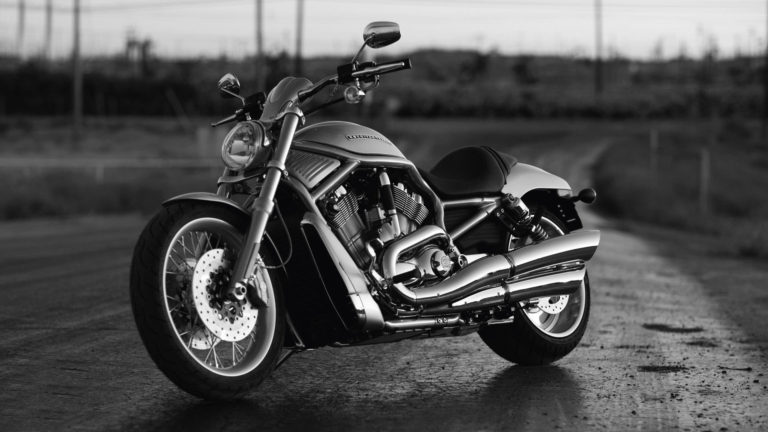
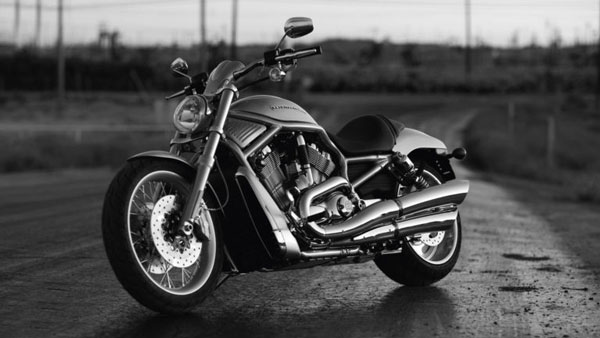
dodata strana (about)

diff --git a/about.html b/about.html
@@ -1,0 +1,136 @@
+<!DOCTYPE html>
+<html lang="en">
+
+<head>
+    <meta charset="UTF-8">
+    <meta name="viewport" content="width=device-width, initial-scale=1.0">
+    <meta http-equiv="X-UA-Compatible" content="ie=edge">
+    <link rel="stylesheet" href="https://maxcdn.bootstrapcdn.com/bootstrap/3.3.7/css/bootstrap.min.css">
+    <link rel="stylesheet" href="/node_modules/bootstrap/dist/css/bootstrap.min.css">
+    <link rel="stylesheet" href="https://maxcdn.bootstrapcdn.com/font-awesome/4.7.0/css/font-awesome.min.css">
+    <link rel="stylesheet" href="/css/style.css">
+    <title>Document</title>
+</head>
+
+<body>
+    <nav class="navbar navbar-default navbar-fixed-top">
+        <div class="container">
+            <div class="navbar-header ">
+                <button type="button" class="navbar-toggle collapsed" data-toggle="collapse" data-target="#navigacija" aria-expanded="false">
+                    <span class="sr-only">Toggle navigation</span>
+                    <span class="icon-bar"></span>
+                    <span class="icon-bar"></span>
+                    <span class="icon-bar"></span>
+                </button>
+                <a class="navbar-brand" href="index.html">
+                    <img src="img/logo.png" alt="logo" width="300px" height="100px">
+                </a>
+            </div>
+            <div class="collapse navbar-collapse" id="navigacija">
+                <ul class="nav navbar-nav navbar-right text-center ">
+                    <li>
+                        <a href="index.html" class="hover">Home</a>
+                    </li>
+                    <li>
+                        <a href="gallery.html" class="hover">Gallery</a>
+                    </li>
+                    <li>
+                        <a href="about.html" class="hover">About</a>
+                    </li>
+                    <li>
+                        <a href="shop.html" class="hover">
+                            <i class="fa fa-shopping-cart" aria-hidden="true"></i>
+                        </a>
+                    </li>
+                </ul>
+            </div>
+        </div>
+    </nav>
+    <!--About-->
+
+    <div class="container margin-top">
+        <div class="row">
+            <div class="media">
+                <div class="media-left">
+
+                    <img class="media-object" src="img/inventors4.jpg" alt="HarleyDpic" width="300px" height="200px">
+
+                </div>
+                <div class="media-body">
+                    <h4 class="media-heading bold">Inventors</h4>
+                    <div class="mbold">In 1901, 20-year-old William S. Harley drew up plans for a small engine with a displacement of 7.07 cubic inches (116 cc³) and four-inch (102 mm) flywheels.</br>[8] The engine was designed for use in a regular pedal-bicycle frame. Over the next two years, Harley and his childhood friend Arthur Davidson worked on their motor-bicycle using the northside Milwaukee machine shop at the home of their friend, Henry Melk.</br> It was finished in 1903 with the help of Arthur's brother, Walter Davidson. Upon testing their power-cycle, Harley and the Davidson brothers found it unable to climb the hills around Milwaukee without pedal assistance.</br> They quickly wrote off their first motor-bicycle as a valuable learning experiment.</div>
+                </div>
+            </div>
+
+            <div class="media sprt">
+                <div class="media-left">
+
+                    <img class="media-object" src="img/firstb1.png" alt="HarleyDpic" width="250px" height="200px">
+
+                </div>
+                <div class="media-body">
+                    <h4 class="media-heading bold">First motorcycle</h4>
+                    <div class="mbold">This first "real" Harley-Davidson motorcycle had a bigger engine of 24.74 cubic inches (405 cc³) with 9.75 inches (25 cm) flywheels weighing 28 lb (13 kg).</br> The machine's advanced loop-frame pattern was similar to the 1903 Milwaukee Merkel motorcycle (designed by Joseph Merkel, later of Flying Merkel fame).</br>br The bigger engine and loop-frame design took it out of the motorized bicycle category and marked the path to future motorcycle designs.</br> The boys also received help with their bigger engine from outboard motor pioneer Ole Evinrude, who was then building gas engines of his own design for automotive use on Milwaukee's Lake Street.</div>
+                </div>
+            </div>
+
+            
+        </div>
+
+
+
+
+
+
+
+    </div>
+
+    <section id="sep3" class="separator text-center">
+        <div class="container">
+            <div class="row">
+                <div class="col-md-6 text-center">
+                    <ul id="ftmreze">
+                        <li>
+                            <a href="www.facebook.com">
+                                <img src="img/f.png" alt="facebook" width="60px" height="50px" class="greyscale">
+                            </a>
+                        </li>
+                        <li>
+                            <a href="www.instagram.com">
+                                <img src="img/i.png" alt="insta" width="50px" height="50px" class="greyscale">
+                            </a>
+
+                            <li>
+                                <a href="www.twitter.com">
+                                    <img src="img/t.png" alt="twitter" width="50px" height="50px" class="greyscale">
+                                </a>
+                            </li>
+                    </ul>
+                </div>
+                <div class="col-md-6">
+                    <ul id="ftmeni">
+                        <li>
+                            <a href="index.html" class="hover">Home</a>
+                        </li>
+                        <li>
+                            <a href="gallery.html" class="hover">Gallery</a>
+                        </li>
+                        <li>
+                            <a href="about.html" class="hover">About</a>
+                        </li>
+                        <li>
+                            <a href="shop.html" class="hover">
+                                <i class="fa fa-shopping-cart" aria-hidden="true"></i>
+                            </a>
+                        </li>
+                    </ul>
+                </div>
+            </div>
+        </div>
+    </section>
+    <script src="https://ajax.googleapis.com/ajax/libs/jquery/1.12.4/jquery.min.js"></script>
+    <script src="https://maxcdn.bootstrapcdn.com/bootstrap/3.3.7/js/bootstrap.min.js"></script>
+    <script src="js/main.js"></script>
+</body>
+
+</html>

diff --git a/css/style.min.css b/css/style.min.css
@@ -1,2 +1,2 @@
-:root{--default:#000000;--button-outline-grey:#222;--button-outline-light-gray:#555}body{background-color:var(--default)}a{text-decoration:none;color:var(--button-outline-light-gray)}li{list-style:none}.navbar{display:flex;align-items:center;border-radius:0;min-height:80px}@media (max-width: 991px){.navbar{justify-content:space-around}}.navbar-brand{font-size:3.5rem;transform:translateY(-70%)}.navbar-default{background:var(--default);border-color:var(--default)}.carousel-inner{height:600px}.carousel-inner .item{width:100% !important;height:100% !important}.carousel-inner .item img{width:100% !important;height:100% !important}.mt-10{margin-top:10rem}.mtb-10{margin:10rem auto}.text-dark{color:rgba(0,0,0,0.6)}.m-auto{margin:0 auto}.outline{background:transparent;border-radius:0;color:var(--button-outline-grey);border:1px solid var(--button-outline-grey);transition:all 0.3s ease-in-out}.outline:hover,.outline:active,.outline:focus{background:var(--button-outline-grey);color:#fff;border:1px solid var(--button-outline-grey)}.light-outline{background:transparent;border-radius:0;color:var(--button-outline-light-gray);border:1px solid var(--button-outline-light-gray);transition:all 0.3s ease-in-out}.light-outline:hover,.light-outline:active,.light-outline:focus{background:var(--button-outline-light-gray);color:#fff;border:1px solid var(--button-outline-light-gray)}.greyscale{filter:grayscale(100%)}.none{display:none}#navigacija .hover{font-size:2rem !important}#navigacija .hover:hover{color:#fff}#background{background:url("https://picsum.photos/1700/700/?random") no-repeat center top;background-attachment:fixed;background-size:cover;min-height:800px;display:flex}#background .jumbotron{background:rgba(255,255,255,0.4);margin:auto}#first_photo{background:url("../img/firstphoto.jpeg") no-repeat center top;background-size:cover;background-attachment:fixed;width:100%;min-height:700px}#second_photo{background:url("../img/secondphoto.jpeg") no-repeat center top;background-size:cover;background-attachment:fixed;width:100%;min-height:700px}.separator{display:flex;flex-direction:column;justify-content:center;align-items:center;padding:3rem 0;min-height:500px}.separator h1{font-size:5rem;color:rgba(255,255,255,0.5)}.separator p{font-size:2.5rem}.separator a{width:48px;margin:0 auto;border-radius:5px}#shop .col-md-4{height:300px;margin-bottom:100px}#shop .col-md-4:nth-child(1){margin-top:100px}#shop .col-md-4:nth-child(2){margin-top:100px}#shop .col-md-4:nth-child(3){margin-top:100px}#shop .thumbnail .btn-org{background-color:orangered;border:1px solid orangered}#shop .thumbnail .grey{filter:grayscale(100%)}#shop .thumbnail img{height:200px;width:100%}#ftmeni{display:flex}#ftmeni li{margin:0 40px}#ftmeni a{text-decoration:none;font-size:20px}#ftmeni a:hover{color:white}#ftmreze{display:flex}#ftmreze li{margin:0 50px}#primer{width:100%;padding:10%}#primer a{text-align:center}#primer a:hover{color:#7a0707}@media (min-width: 768px){#primer{text-align:center}}
+:root{--default:#000000;--button-outline-grey:#222;--button-outline-light-gray:#555}body{background-color:var(--default)}a{text-decoration:none;color:var(--button-outline-light-gray)}li{list-style:none}.navbar{display:flex;align-items:center;border-radius:0;min-height:80px}@media (max-width: 991px){.navbar{justify-content:space-around}}.navbar-brand{font-size:3.5rem;transform:translateY(-70%)}.navbar-default{background:var(--default);border-color:var(--default)}.carousel-inner{height:600px}.carousel-inner .item{width:100% !important;height:100% !important}.carousel-inner .item img{width:100% !important;height:100% !important}.mt-10{margin-top:10rem}.mtb-10{margin:10rem auto}.text-dark{color:rgba(0,0,0,0.6)}.m-auto{margin:0 auto}.outline{background:transparent;border-radius:0;color:var(--button-outline-grey);border:1px solid var(--button-outline-grey);transition:all 0.3s ease-in-out}.outline:hover,.outline:active,.outline:focus{background:var(--button-outline-grey);color:#fff;border:1px solid var(--button-outline-grey)}.light-outline{background:transparent;border-radius:0;color:var(--button-outline-light-gray);border:1px solid var(--button-outline-light-gray);transition:all 0.3s ease-in-out}.light-outline:hover,.light-outline:active,.light-outline:focus{background:var(--button-outline-light-gray);color:#fff;border:1px solid var(--button-outline-light-gray)}.greyscale{filter:grayscale(100%)}.none{display:none}#navigacija .hover{font-size:2rem !important}#navigacija .hover:hover{color:#fff}#background{background:url("https://picsum.photos/1700/700/?random") no-repeat center top;background-attachment:fixed;background-size:cover;min-height:800px;display:flex}#background .jumbotron{background:rgba(255,255,255,0.4);margin:auto}#first_photo{background:url("../img/firstphoto.jpeg") no-repeat center top;background-size:cover;background-attachment:fixed;width:100%;min-height:700px}#second_photo{background:url("../img/secondphoto.jpeg") no-repeat center top;background-size:cover;background-attachment:fixed;width:100%;min-height:700px}.separator{display:flex;flex-direction:column;justify-content:center;align-items:center;padding:3rem 0;min-height:500px}.separator h1{font-size:5rem;color:rgba(255,255,255,0.5)}.separator p{font-size:2.5rem}.separator a{width:48px;margin:0 auto;border-radius:5px}#shop .col-md-4{height:300px;margin-bottom:100px}#shop .col-md-4:nth-child(1){margin-top:100px}#shop .col-md-4:nth-child(2){margin-top:100px}#shop .col-md-4:nth-child(3){margin-top:100px}#shop .thumbnail .btn-org{background-color:orangered;border:1px solid orangered}#shop .thumbnail .grey{filter:grayscale(100%)}#shop .thumbnail img{height:200px;width:100%}#ftmeni{display:flex}#ftmeni li{margin:0 40px}#ftmeni a{text-decoration:none;font-size:20px}#ftmeni a:hover{color:white}#ftmreze{display:flex}#ftmreze li{margin:0 50px}.margin-top{margin-top:100px}.sprt{margin-top:40px;margin-left:80px}.container .row .media .media-left img{border-radius:5px}.bold{font-size:25px;color:#555}.mbold{font-weight:18px;color:#555}
 /*# sourceMappingURL=style.min.css.map */

diff --git a/css/style.css b/css/style.css
@@ -115,9 +115,10 @@ li {
 }
 
 #background {
-  background: url("https://picsum.photos/1700/700/?random") no-repeat center top;
+  background: url("../img/fimg2.jpg") no-repeat center top;
   background-attachment: fixed;
   background-size: cover;
+  width: 100%;
   min-height: 800px;
   display: flex;
 }
@@ -128,7 +129,7 @@ li {
 }
 
 #first_photo {
-  background: url("../img/firstphoto.jpeg") no-repeat center top;
+  background: url("../img/firstphoto.jpg") no-repeat center top;
   background-size: cover;
   background-attachment: fixed;
   width: 100%;
@@ -149,7 +150,7 @@ li {
   justify-content: center;
   align-items: center;
   padding: 3rem 0;
-  min-height: 500px;
+  min-height: 300px;
 }
 
 .separator h1 {
@@ -223,22 +224,26 @@ li {
   margin: 0 50px;
 }
 
-#primer {
-  width: 100%;
-  padding: 10%;
+.margin-top {
+  margin-top: 100px;
 }
 
-#primer a {
-  text-align: center;
+.sprt {
+  margin-top: 40px;
+  margin-left: 80px;
 }
 
-#primer a:hover {
-  color: #7a0707;
+.container .row .media .media-left img {
+  border-radius: 5px;
 }
 
-@media (min-width: 768px) {
-  #primer {
-    text-align: center;
-  }
+.bold {
+  font-size: 25px;
+  color: #555;
+}
+
+.mbold {
+  font-weight: 18px;
+  color: #555;
 }
 /*# sourceMappingURL=style.css.map */

diff --git a/scss/_primer.scss b/scss/_primer.scss
@@ -1,33 +1,39 @@
-$boja: red;
+$color: red;
 
 
-@media (min-width:768px){
-    
-
-
+.margin-top{
+    margin-top: 100px;
 }
+.sprt{
+    margin-top: 40px;
+    margin-left: 80px;
+}
+.container{
+    .row{
 
-#primer{
-    width: 100%;
-    padding: 10%;
-    a{
-        text-align: center;
-        &:hover{
-            
-            color: lighten($color: #7a0707, $amount: 0);
-            
-            
+        .media{
 
+            .media-left{
+
+                img{
+                    border-radius: 5px;
+
+                }
+            }
+            
+            
         }
 
     }
 
-    @media (min-width:768px){
-        text-align: center;
 
 
-    }
-    
-
-
+}
+.bold{
+    font-size: 25px;
+    color: $button-outline-light-gray;
+}
+.mbold{
+    font-weight: 18px;
+    color: $button-outline-light-gray;
 }

diff --git a/gallery.html b/gallery.html
@@ -47,7 +47,7 @@
         </div>
     </nav>
     <!-- #Gallery-->
-    <div id="drzac" class="container">
+    <div class="container">
         <div class="row">
             <div id="gallery" class="carousel slide" data-interval="5000" data-ride="carousel">
                 <!-- Indicators -->
